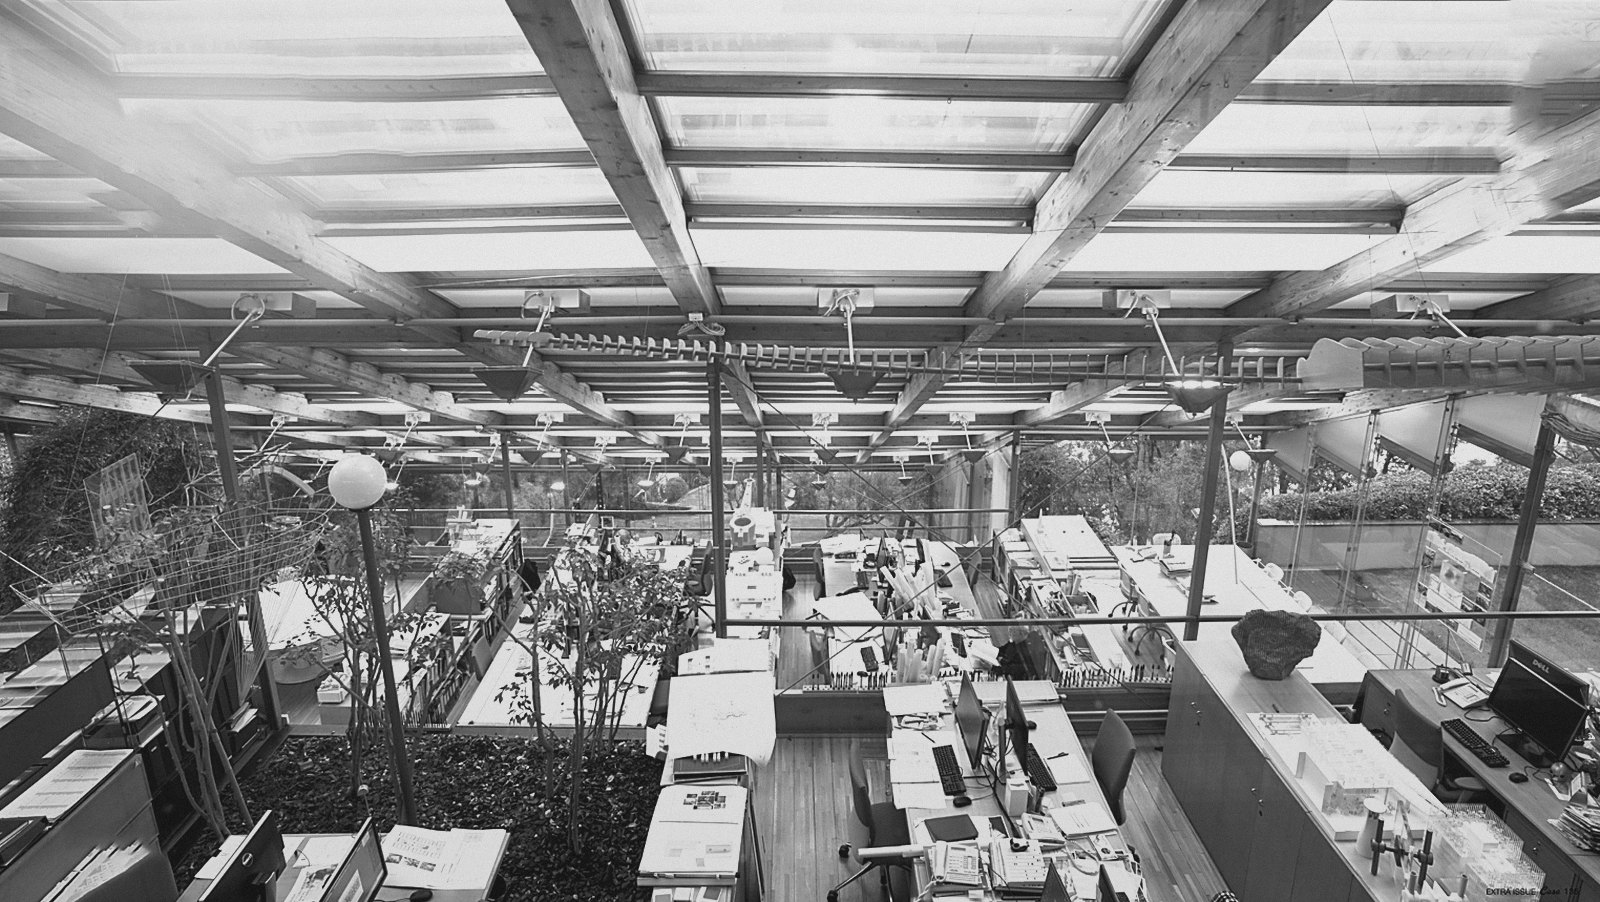
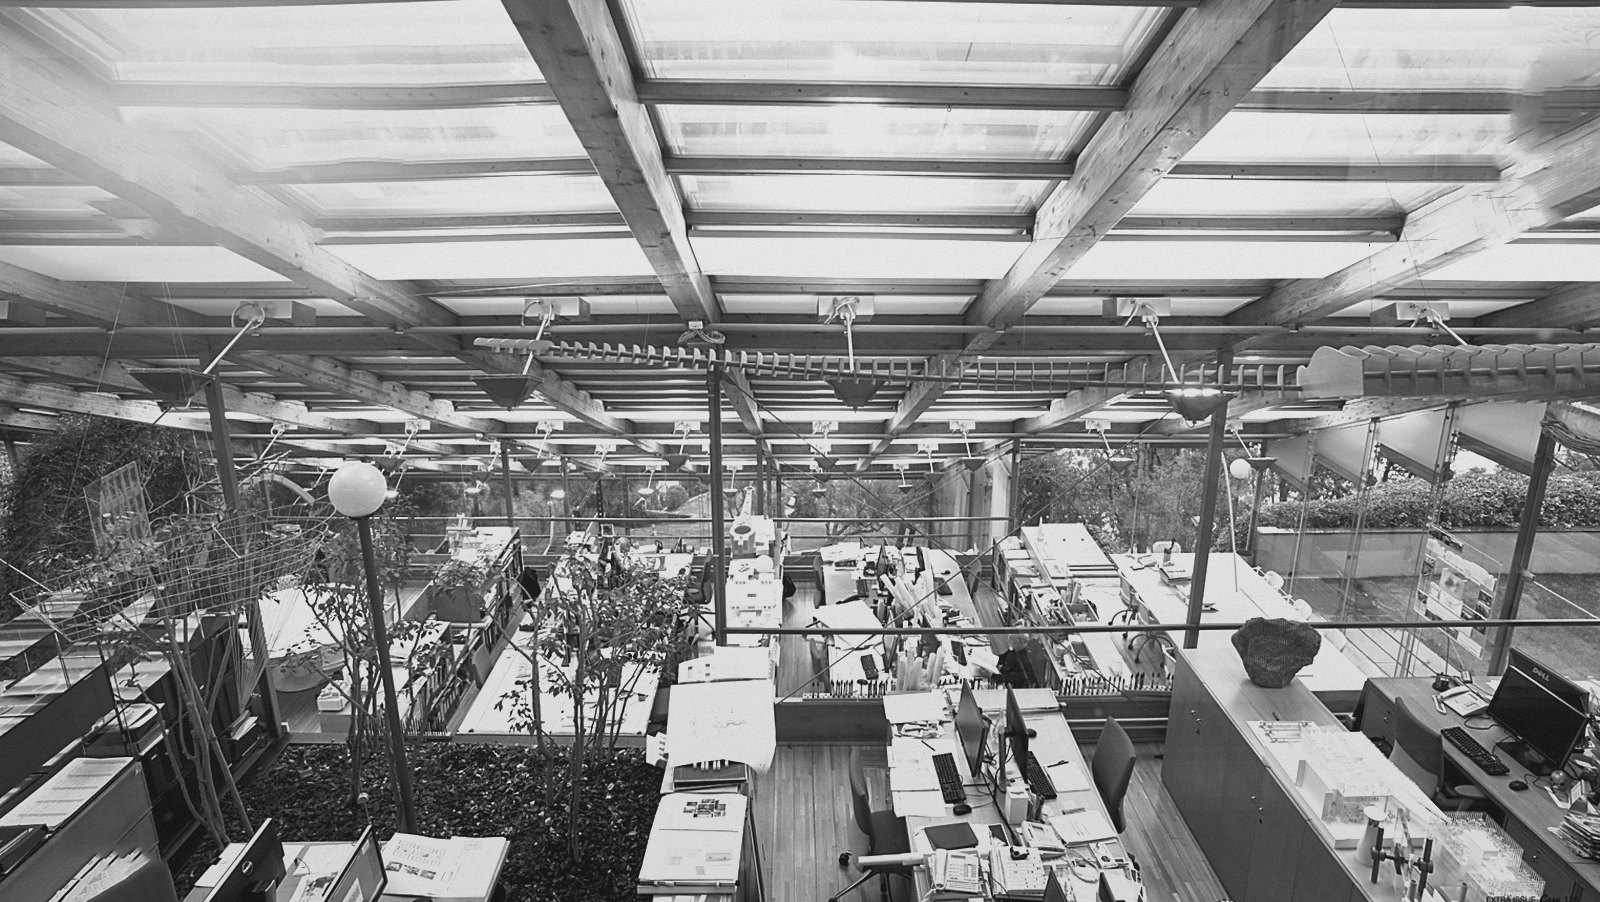
5枚目(白い部屋)の帯を元に戻す
- 前回まとめて下げた際にこの1枚も 0.55→0.70 にしていたが、床が
  入りすぎて構図が間延びしていたため 0.55 へ戻す
- 他の4枚(2/3/4/6)は下げたままで変更なし
- office-5.jpg のみ ?v=9

diff --git a/Red-orange.html b/Red-orange.html
@@ -351,7 +351,7 @@
           <div class="cmp__slide"><img src="assets/images/company/office-2.jpg?v=8" alt=""></div>
           <div class="cmp__slide"><img src="assets/images/company/office-3.jpg?v=8" alt=""></div>
           <div class="cmp__slide"><img src="assets/images/company/office-4.jpg?v=8" alt=""></div>
-          <div class="cmp__slide"><img src="assets/images/company/office-5.jpg?v=8" alt=""></div>
+          <div class="cmp__slide"><img src="assets/images/company/office-5.jpg?v=9" alt=""></div>
           <div class="cmp__slide"><img src="assets/images/company/office-6.jpg?v=8" alt=""></div>
         </div>
         <div class="cmp__label reveal">

diff --git a/darkblack.html b/darkblack.html
@@ -351,7 +351,7 @@
           <div class="cmp__slide"><img src="assets/images/company/office-2.jpg?v=8" alt=""></div>
           <div class="cmp__slide"><img src="assets/images/company/office-3.jpg?v=8" alt=""></div>
           <div class="cmp__slide"><img src="assets/images/company/office-4.jpg?v=8" alt=""></div>
-          <div class="cmp__slide"><img src="assets/images/company/office-5.jpg?v=8" alt=""></div>
+          <div class="cmp__slide"><img src="assets/images/company/office-5.jpg?v=9" alt=""></div>
           <div class="cmp__slide"><img src="assets/images/company/office-6.jpg?v=8" alt=""></div>
         </div>
         <div class="cmp__label reveal">

diff --git a/fire.html b/fire.html
@@ -351,7 +351,7 @@
           <div class="cmp__slide"><img src="assets/images/company/office-2.jpg?v=8" alt=""></div>
           <div class="cmp__slide"><img src="assets/images/company/office-3.jpg?v=8" alt=""></div>
           <div class="cmp__slide"><img src="assets/images/company/office-4.jpg?v=8" alt=""></div>
-          <div class="cmp__slide"><img src="assets/images/company/office-5.jpg?v=8" alt=""></div>
+          <div class="cmp__slide"><img src="assets/images/company/office-5.jpg?v=9" alt=""></div>
           <div class="cmp__slide"><img src="assets/images/company/office-6.jpg?v=8" alt=""></div>
         </div>
         <div class="cmp__label reveal">
